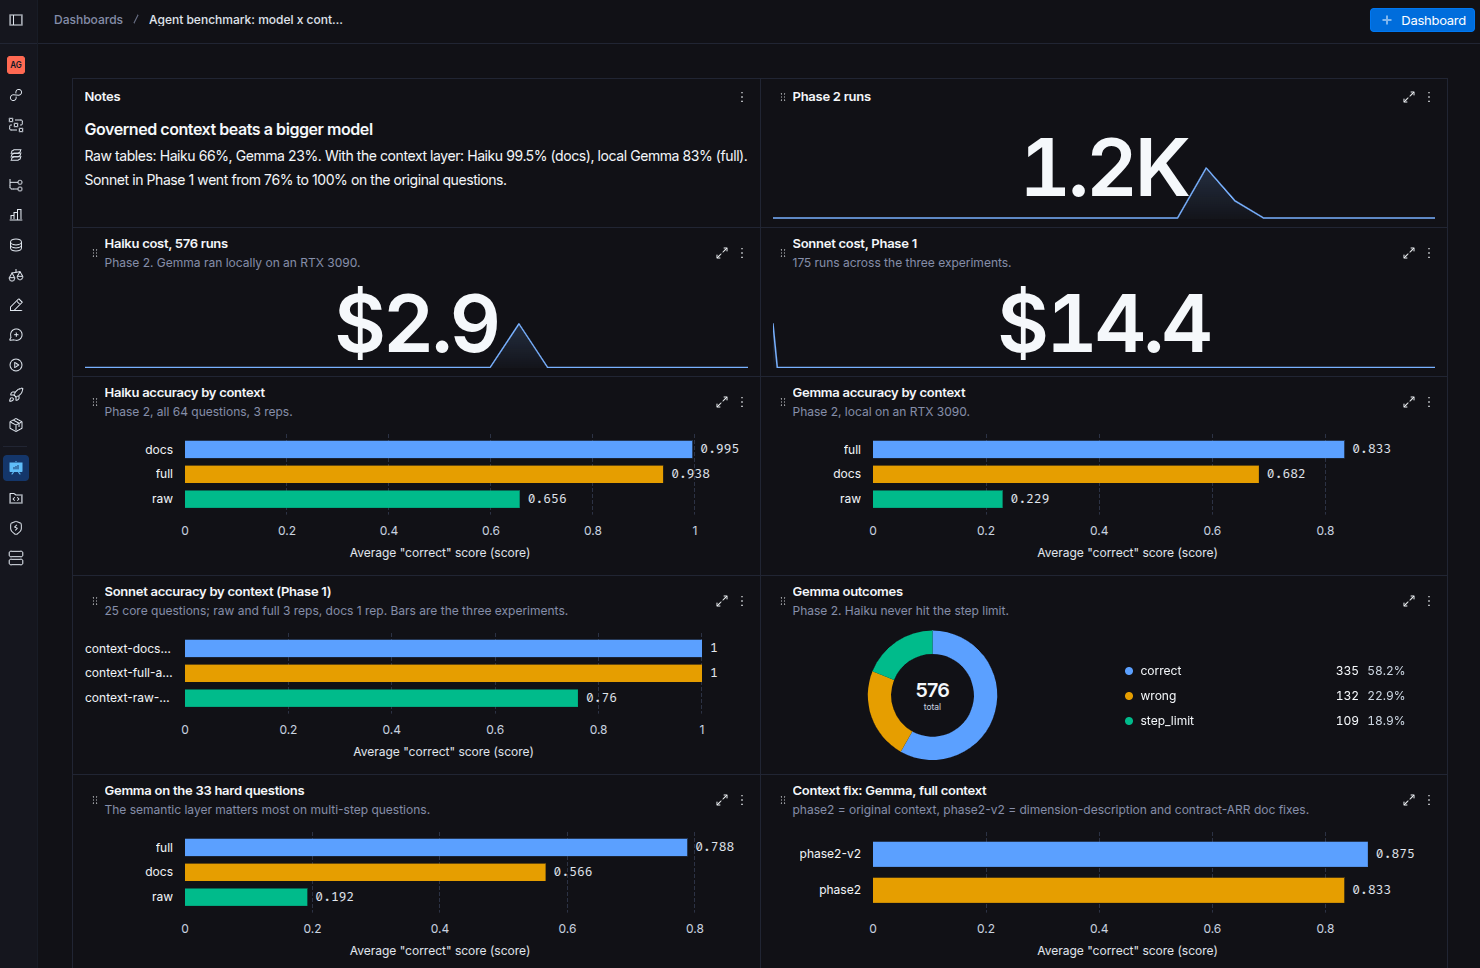
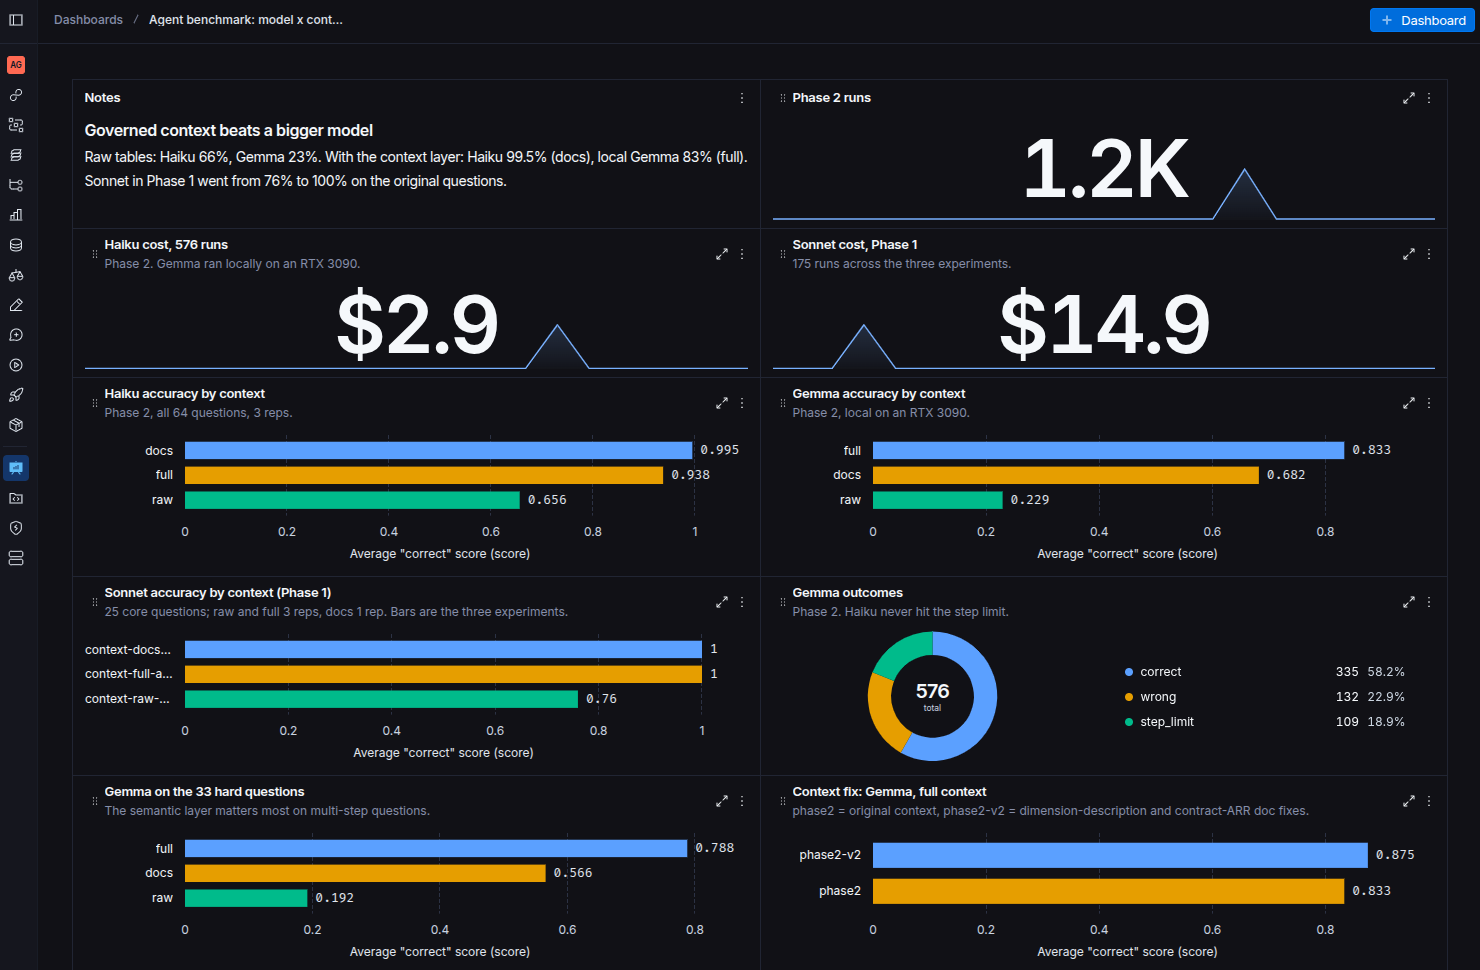
Touch up README hero screenshot (#24)
* Touch up README hero screenshot

* README: CI badge reports pull request runs

The ci workflow runs only on pull_request, so the default-branch badge has
no runs to show. ?event=pull_request reports the latest PR run.

Claude-Session: https://claude.ai/code/session_01Ei6PP95sBbirN8Dws34q3R

---------

diff --git a/README.md b/README.md
@@ -1,6 +1,6 @@
 # agent-ready-analytics
 
-[![ci](https://github.com/JacobWillson13/agent-ready-analytics/actions/workflows/ci.yml/badge.svg)](https://github.com/JacobWillson13/agent-ready-analytics/actions/workflows/ci.yml)
+[![ci](https://github.com/JacobWillson13/agent-ready-analytics/actions/workflows/ci.yml/badge.svg?event=pull_request)](https://github.com/JacobWillson13/agent-ready-analytics/actions/workflows/ci.yml)
 ![Python 3.12](https://img.shields.io/badge/python-3.12-3776AB?logo=python&logoColor=white)
 ![dbt 1.12](https://img.shields.io/badge/dbt-1.12-FF694B?logo=dbt&logoColor=white)
 ![MetricFlow](https://img.shields.io/badge/semantic%20layer-MetricFlow-FF694B)
